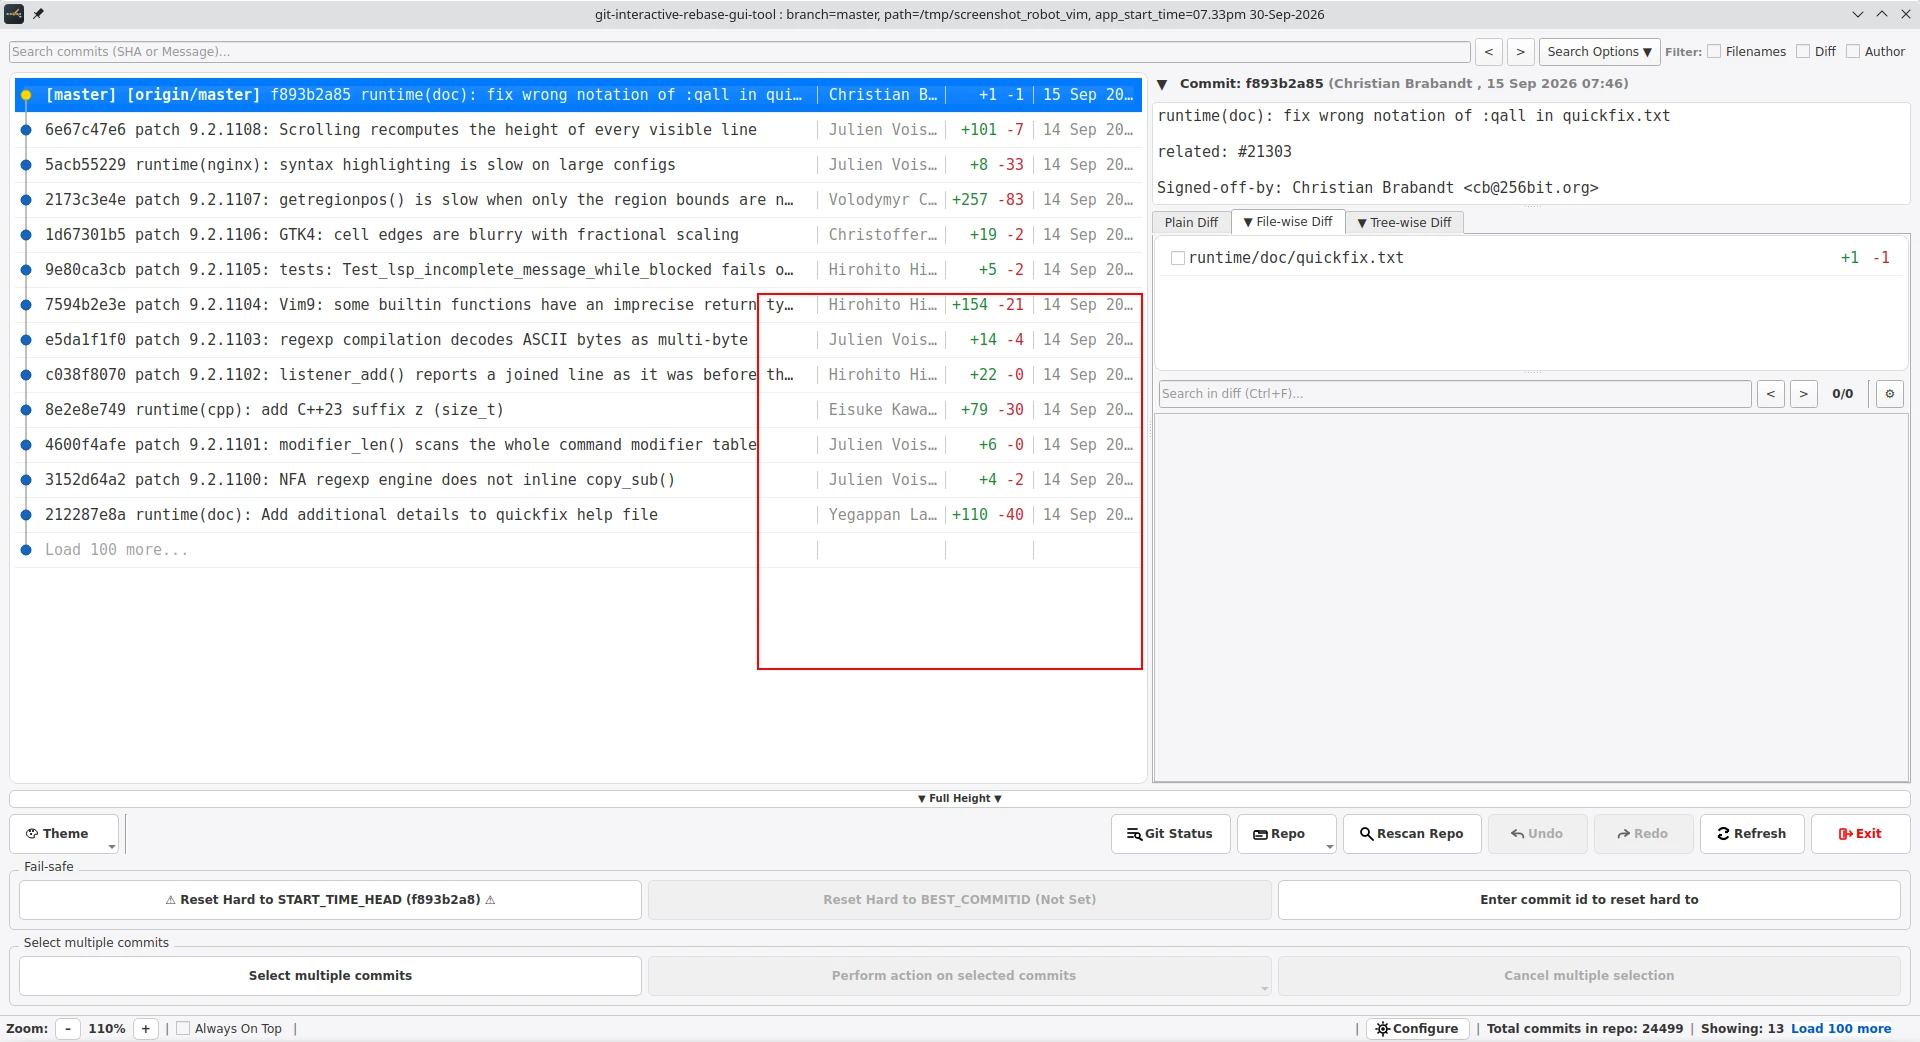
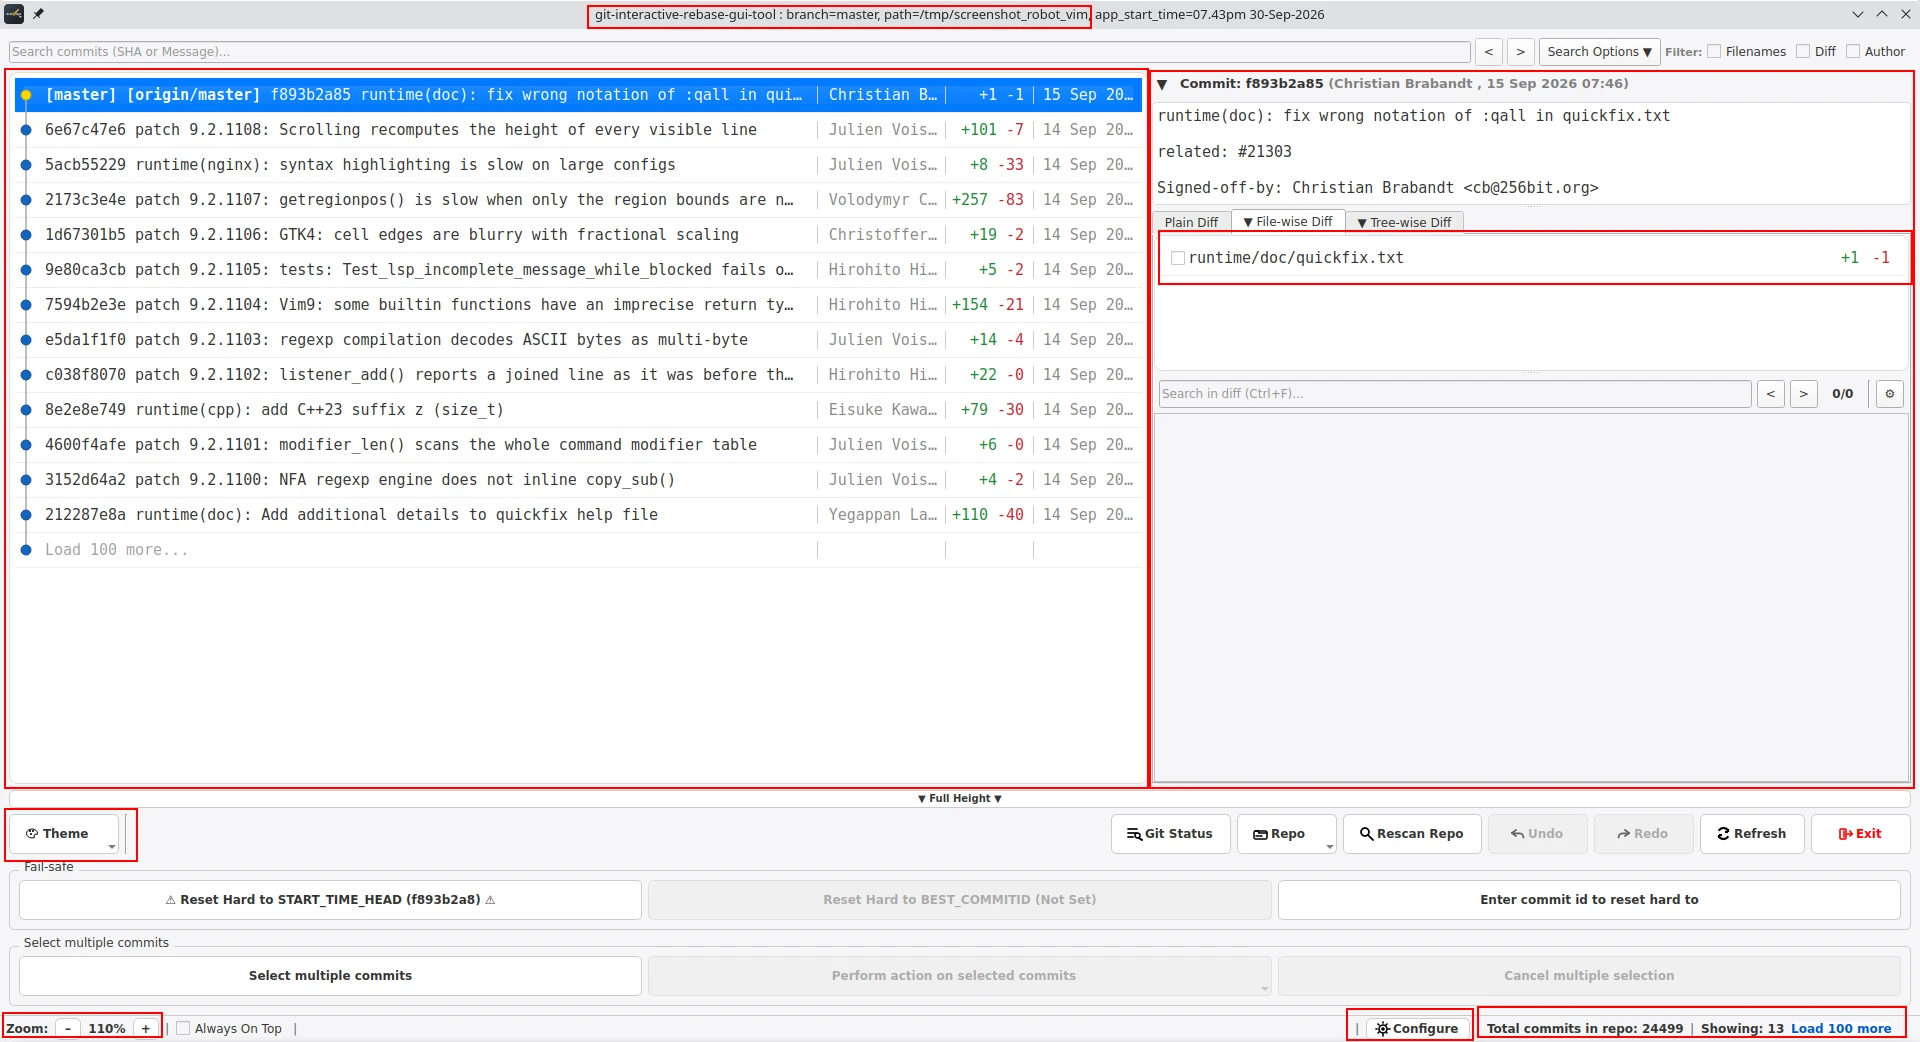
capture: main-interface.webp

diff --git a/main-interface.py b/main-interface.py
@@ -36,6 +36,14 @@ def main():
         )
 
         img.draw_box(BOXES)
+
+        img.add_text(500, 11, "repo details", 20, border=1, fill="red")
+        img.add_text(1423, 535, "diff pane", 20, border=1, fill="red")
+        img.add_text(1636, 955, "num of commits", 20, border=1, fill="red")
+        img.add_text(1357, 998, "settings", 20, border=1, fill="red")
+        img.add_text(30, 1002, "zoom", 20, border=1, fill="red")
+        img.add_text(128, 827, "themes", 20, border=1, fill="red")
+
         img.save("main-interface.png")
 
     finally:
